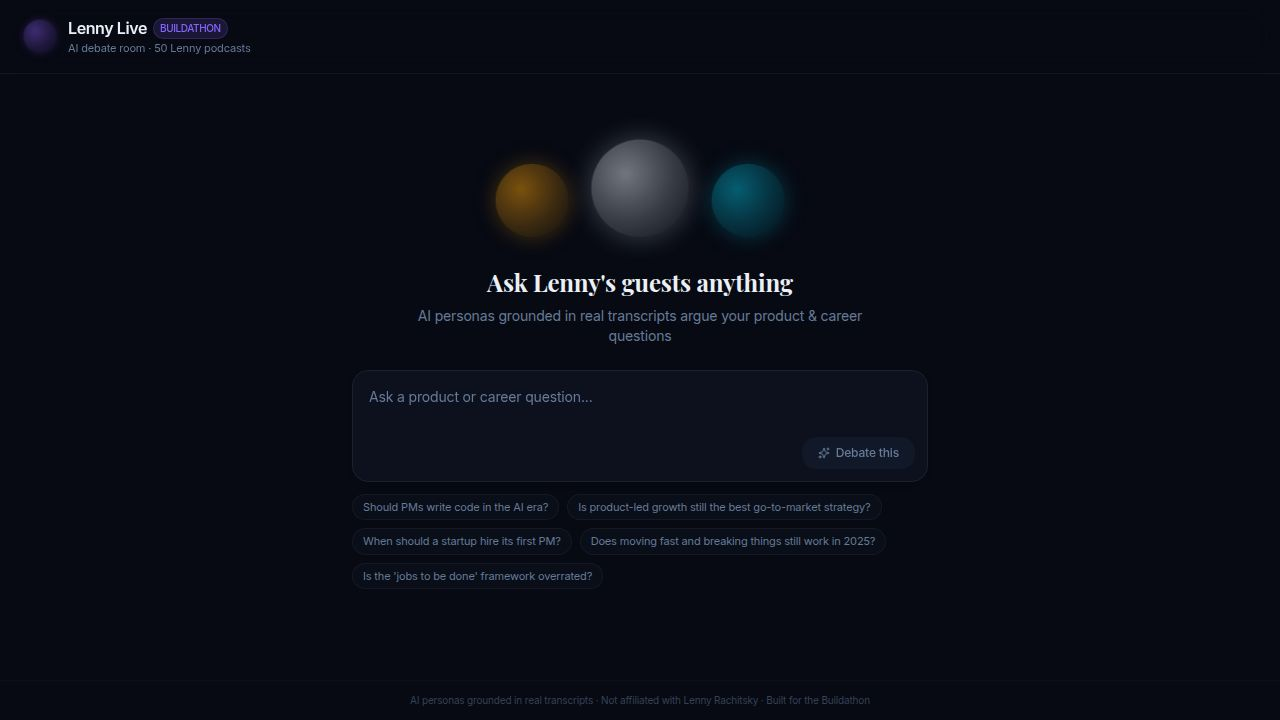
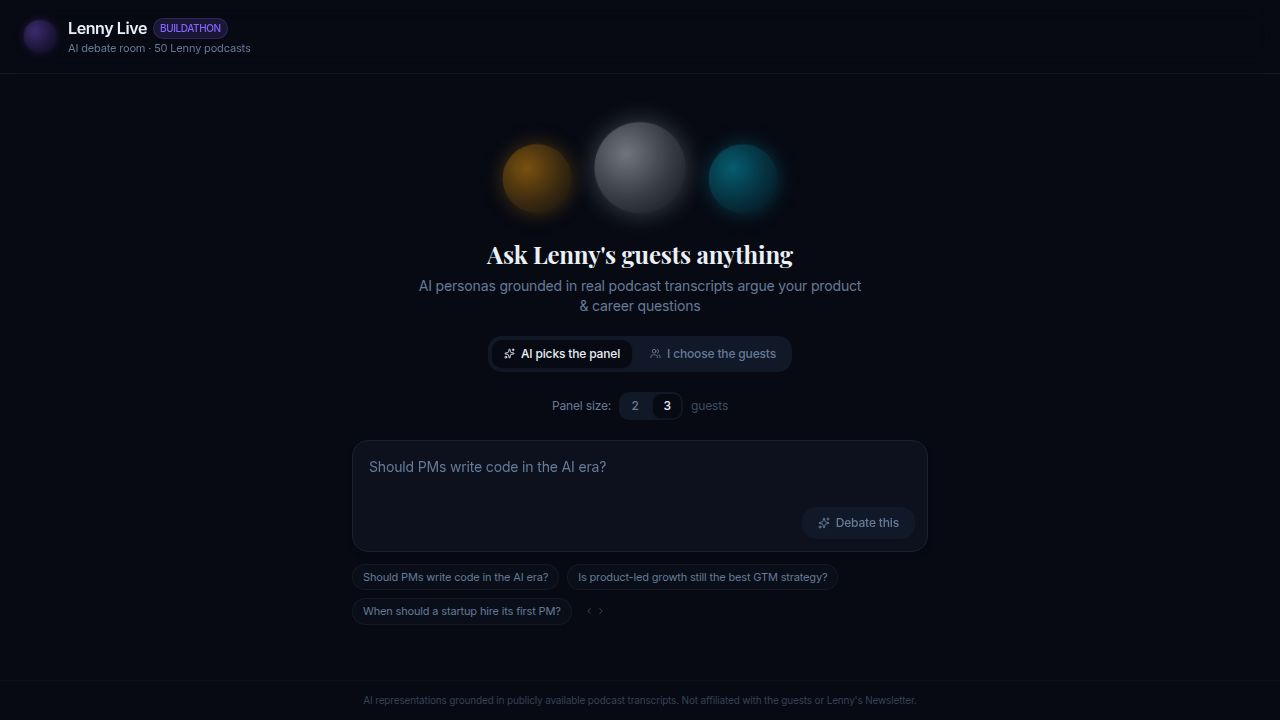
Improve hover behavior for episode popovers to prevent accidental closures
Fixes a bug where the episode information popover would disappear when moving the mouse from the source pill to the popover itself, by implementing a delayed close mechanism and preventing event propagation on the "Full episode" link.

Replit-Commit-Author: Agent
Replit-Commit-Session-Id: 20514d20-fa53-4cd6-98ba-4cce1a1127da
Replit-Commit-Checkpoint-Type: full_checkpoint
Replit-Commit-Event-Id: d773d18d-9a2a-4178-b903-821c029b57c9
Replit-Commit-Screenshot-Url: https://storage.googleapis.com/screenshot-production-us-central1/61ceff6d-4fa8-485b-9e67-bb1827850a2b/20514d20-fa53-4cd6-98ba-4cce1a1127da/PlHy0bw
Replit-Helium-Checkpoint-Created: true

diff --git a/artifacts/lenny-live/src/pages/home.tsx b/artifacts/lenny-live/src/pages/home.tsx
@@ -116,9 +116,23 @@ function SourcePill({
   snippet?: string;
 }) {
   const [open, setOpen] = useState(false);
+  const closeTimer = useRef<ReturnType<typeof setTimeout> | null>(null);
+
   if (!source) return null;
 
   const hasSnippet = Boolean(snippet);
+
+  const cancelClose = () => {
+    if (closeTimer.current) {
+      clearTimeout(closeTimer.current);
+      closeTimer.current = null;
+    }
+  };
+
+  const scheduleClose = () => {
+    cancelClose();
+    closeTimer.current = setTimeout(() => setOpen(false), 120);
+  };
 
   return (
     <span className="relative inline-block">
@@ -133,8 +147,11 @@ function SourcePill({
           color: guestColor,
         }}
         data-testid={`source-pill-${source.episode}`}
-        onMouseEnter={() => hasSnippet && setOpen(true)}
-        onMouseLeave={() => setOpen(false)}
+        onMouseEnter={() => {
+          cancelClose();
+          if (hasSnippet) setOpen(true);
+        }}
+        onMouseLeave={scheduleClose}
         onClick={(e) => {
           if (hasSnippet) {
             e.preventDefault();
@@ -147,12 +164,12 @@ function SourcePill({
         {hasSnippet && <BookOpen size={7} className="ml-0.5 opacity-60" />}
       </a>
 
-      {/* Hover snippet popover */}
+      {/* Snippet popover — stays open while hovering pill or popover */}
       {open && snippet && (
         <div
-          className="absolute bottom-full left-0 mb-2 z-50 w-72 rounded-xl border border-border bg-card shadow-xl p-3"
-          onMouseEnter={() => setOpen(true)}
-          onMouseLeave={() => setOpen(false)}
+          className="absolute bottom-full left-0 mb-1 z-50 w-72 rounded-xl border border-border bg-card shadow-xl p-3"
+          onMouseEnter={cancelClose}
+          onMouseLeave={scheduleClose}
         >
           <p className="text-[10px] text-muted-foreground leading-relaxed italic line-clamp-6">
             &ldquo;{snippet}&rdquo;
@@ -167,6 +184,7 @@ function SourcePill({
               rel="noopener noreferrer"
               className="text-[9px] underline"
               style={{ color: guestColor }}
+              onClick={(e) => e.stopPropagation()}
             >
               Full episode →
             </a>